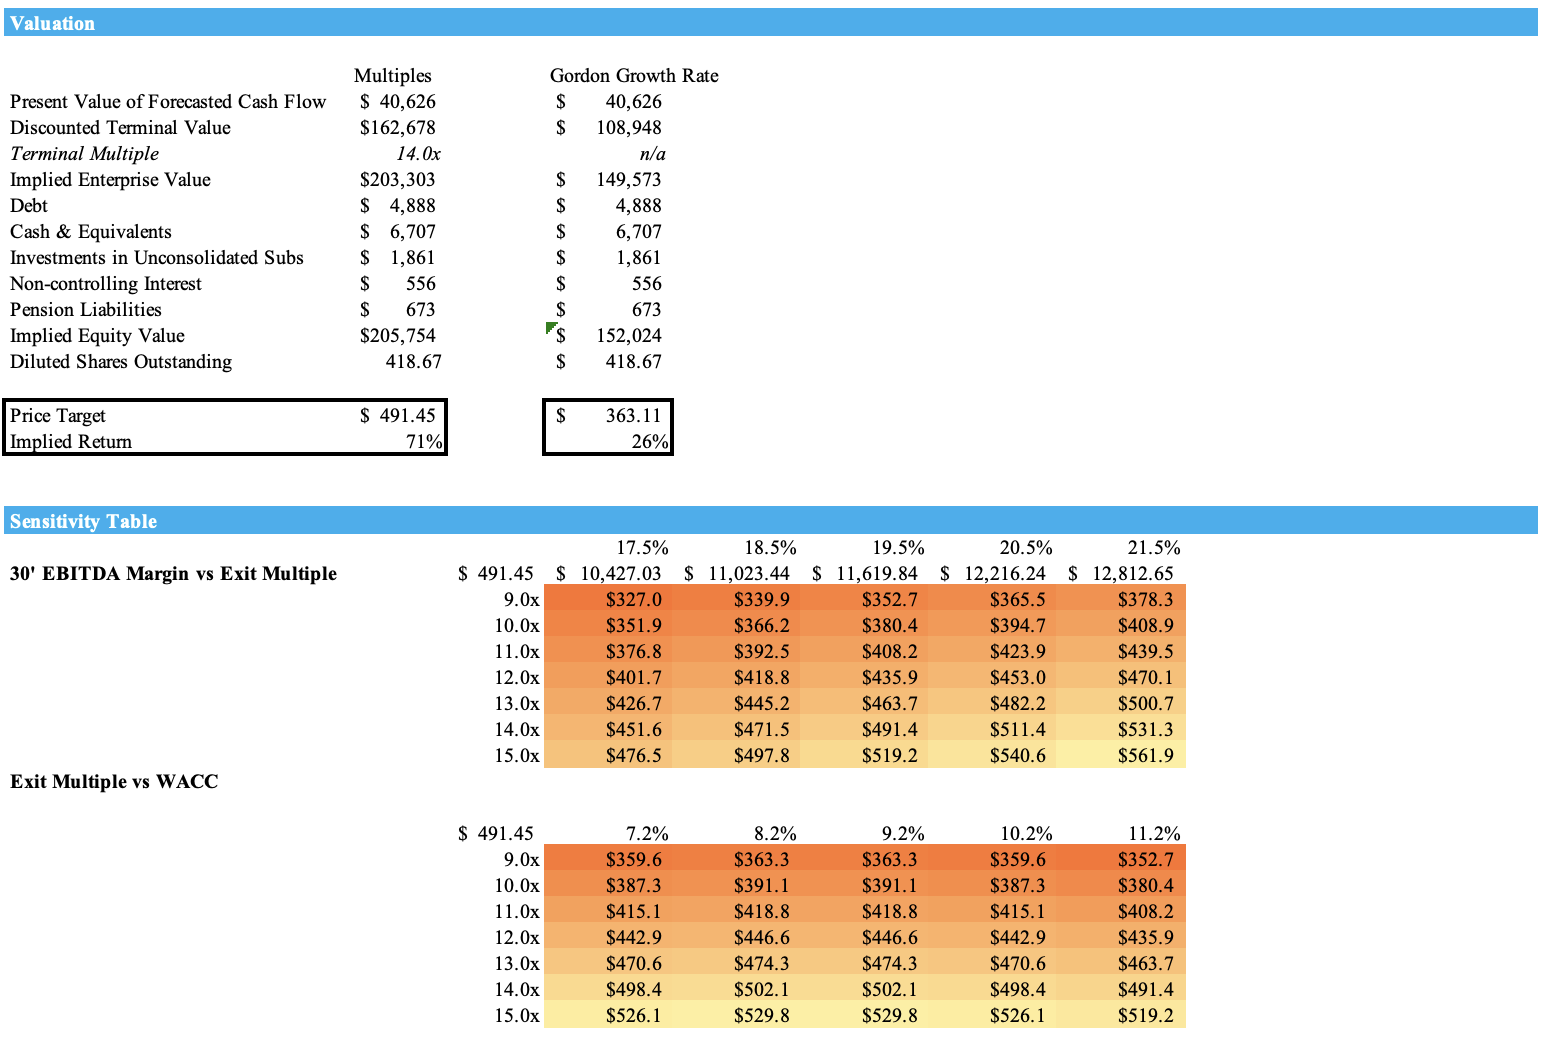
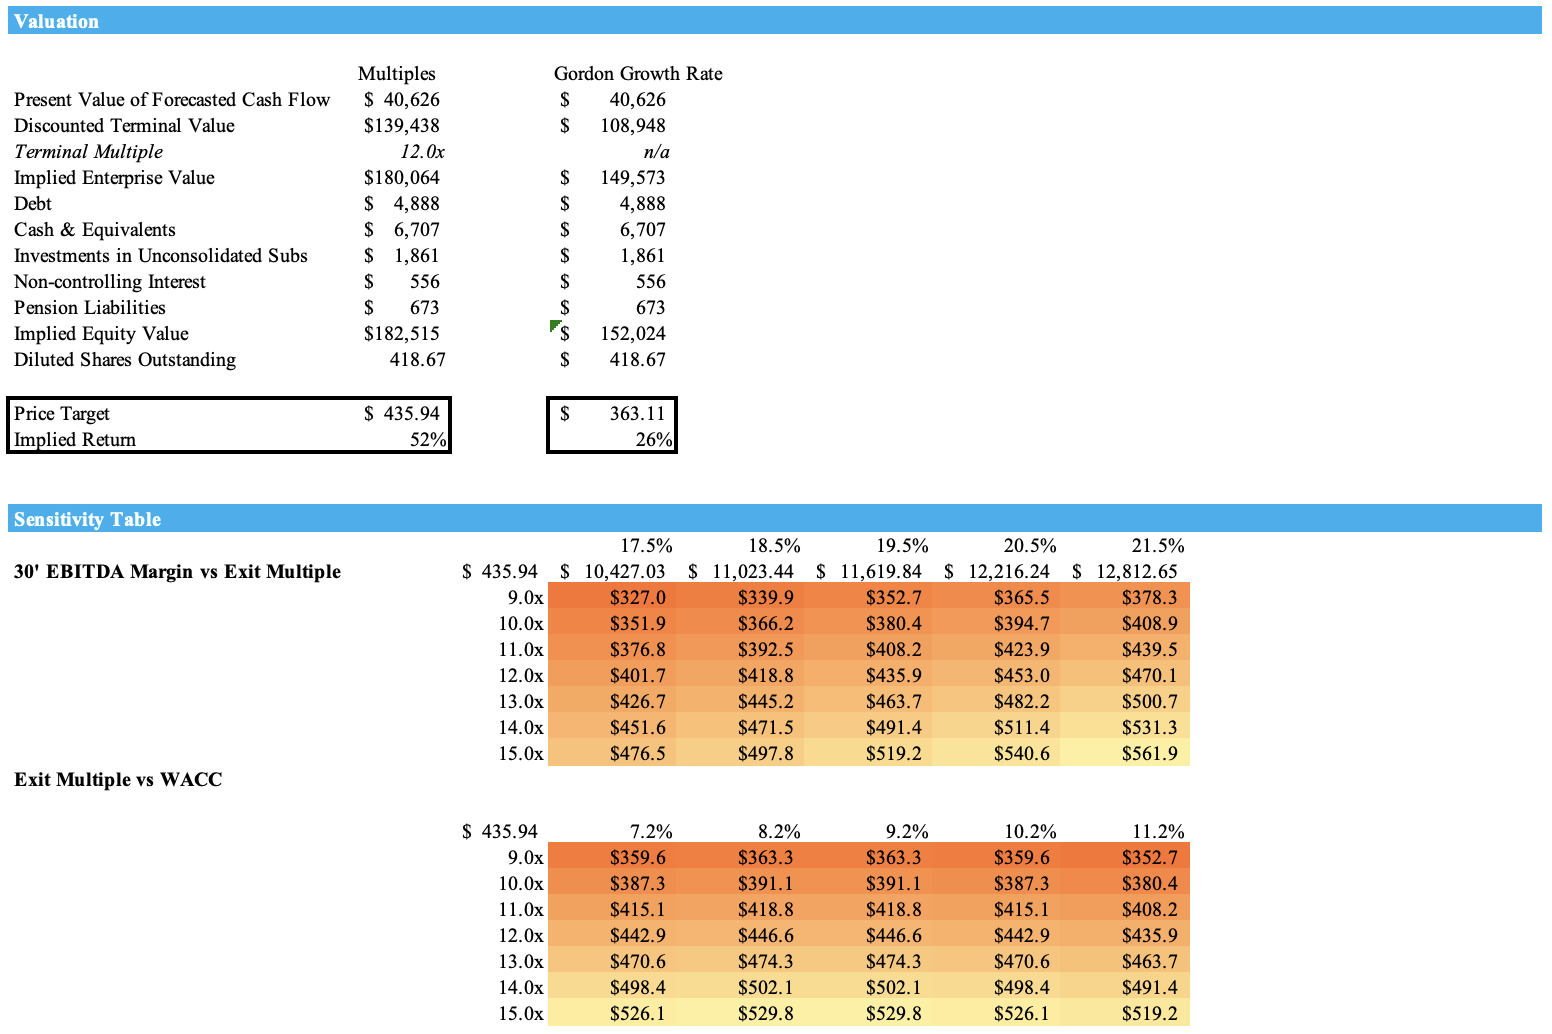
saf

diff --git a/posts/saf-pa.html b/posts/saf-pa.html
@@ -1,10 +1,6 @@
 <p><strong>Ticker:</strong> SAF.PA</p>
 <p><strong>Company:</strong> Safran — aerospace propulsion and equipment with meaningful aftermarket exposure.</p>
 
-<figure>
-  <img src="posts/Images/saf-pa/multiples.png" alt="Safran historical multiples">
-  <figcaption><strong>Historical Multiples</strong> — EV/EBITDA history and trading context.</figcaption>
-</figure>
 
 <h3>Investment Thesis Safran – Long Recommendation</h3>
 <ol>
@@ -54,9 +50,7 @@
 </figure>
 
 <h3>Exit Multiple Assumptions</h3>
-<ul>
-  <li><strong>12×</strong> seems to be reasonable here.</li>
-</ul>
+
 <p>
   A <strong>12×</strong> exit multiple is considered reasonable based on historical cycle medians and peer benchmarks.
 </p>
